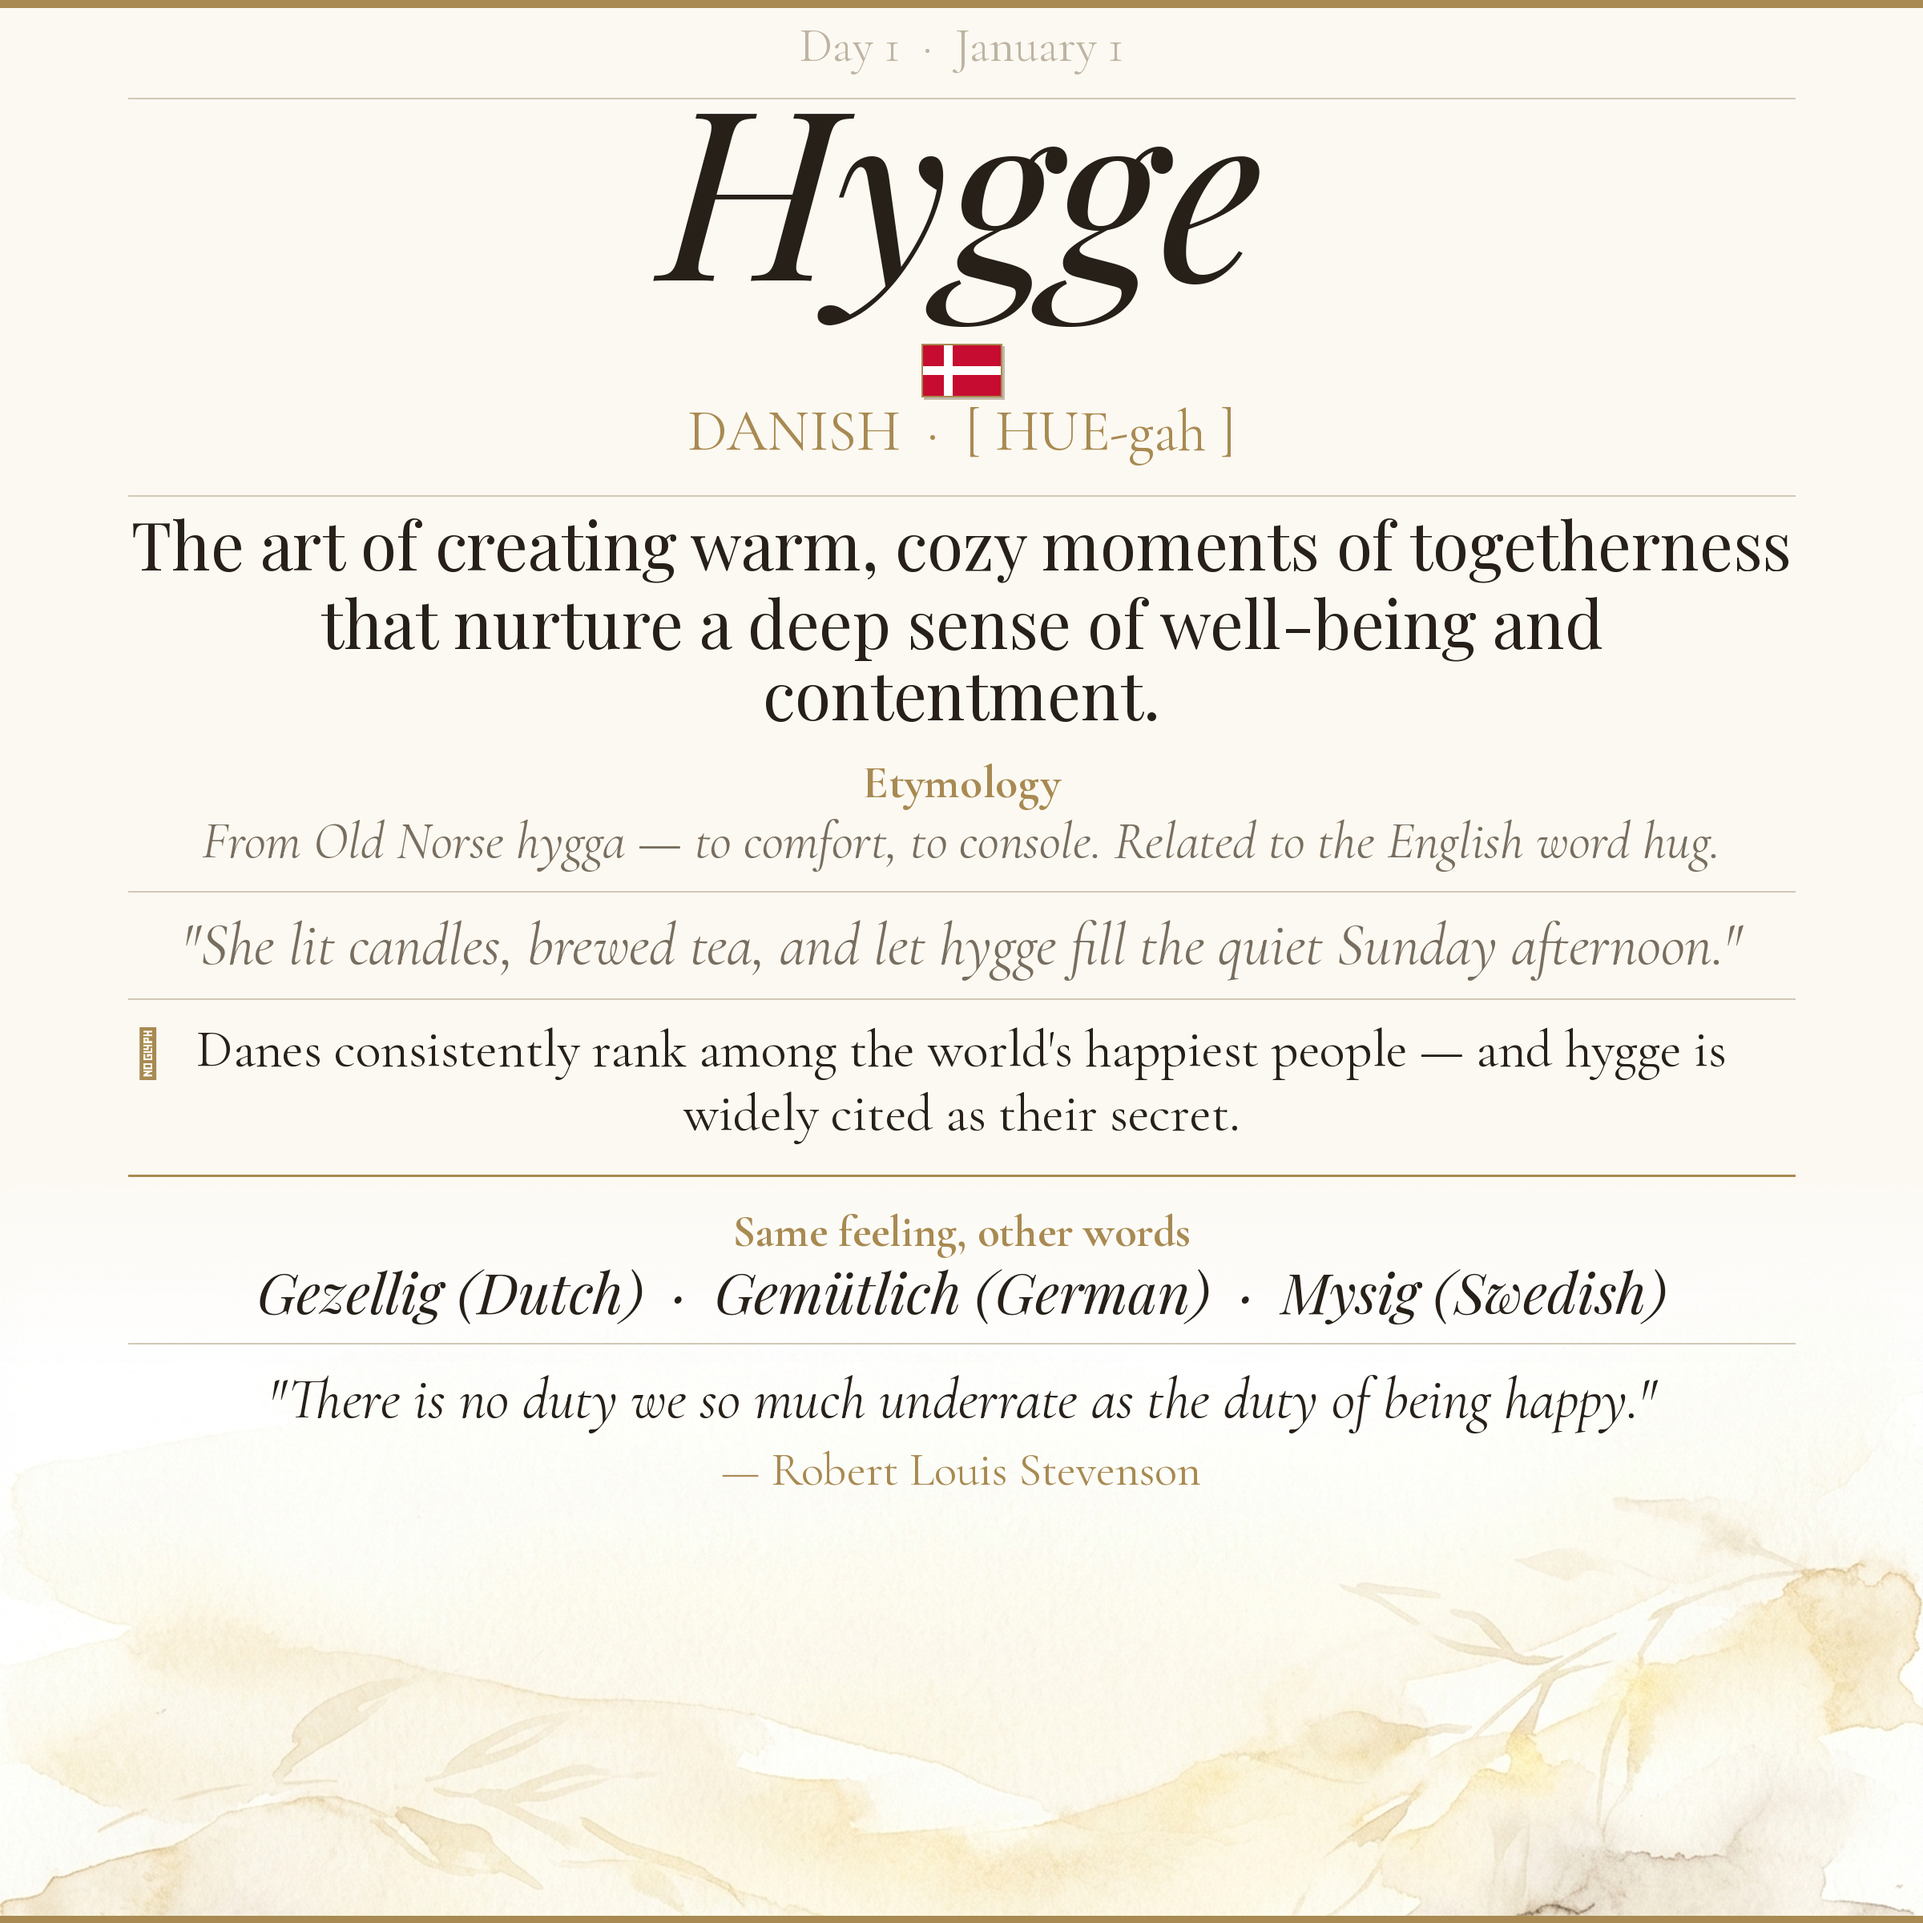
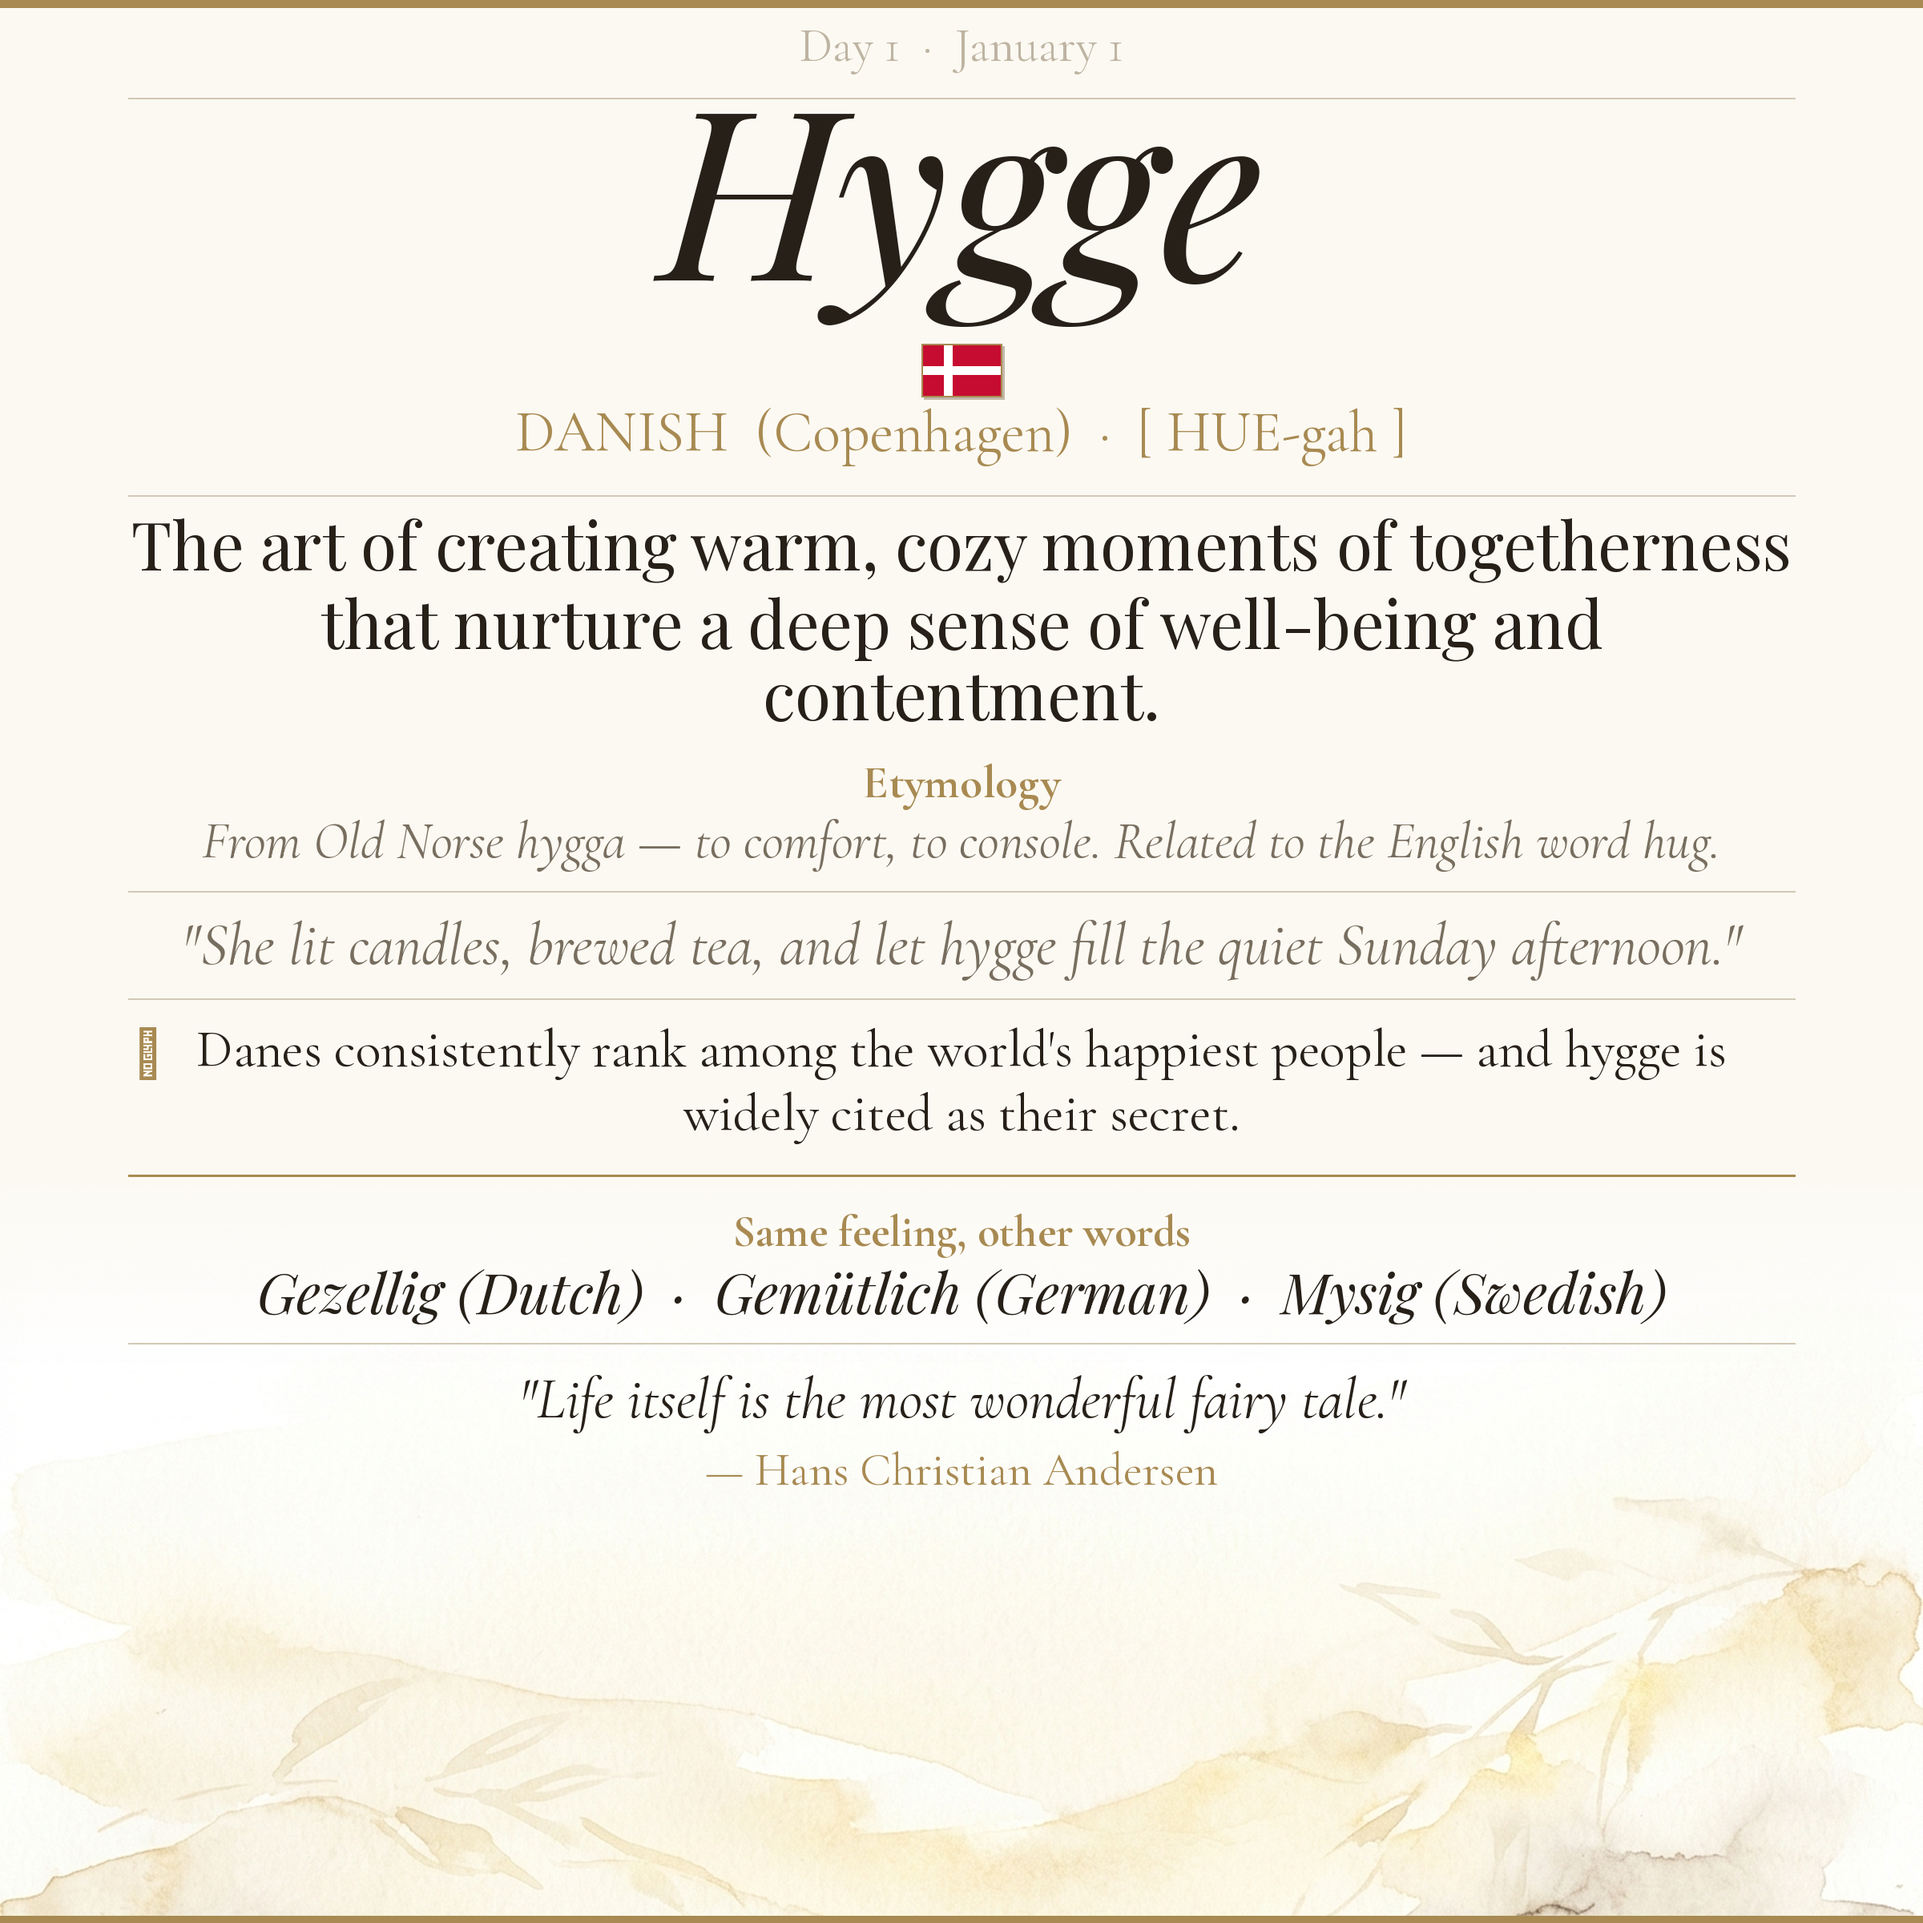
Add capital city + country-native quotes to word book pages
- Language line now shows: LANGUAGE (Capital) · pronunciation
- Quotes now come from authors native to the word's country
- Hygge: Hans Christian Andersen / Saudade: Fernando Pessoa

https://claude.ai/code/session_018BNd1Ba7eFukj4va47McZo

Changed region(s): [[0.2188, 0.7188, 0.8438, 0.7812], [0.2812, 0.2188, 0.7188, 0.25], [0.1562, 0.7188, 0.1875, 0.75]]

diff --git a/make_word_book.py b/make_word_book.py
@@ -162,7 +162,7 @@ def draw_mini_flag(draw, cx, cy, language):
 
 # ── Page renderer ─────────────────────────────────────────────────────────────
 
-def make_page(day_num, date_str, word, language, pronunciation,
+def make_page(day_num, date_str, word, language, capital, pronunciation,
               definition, etymology, example, cultural_note,
               related, quote, quote_author,
               out_name="word_demo.png"):
@@ -207,7 +207,7 @@ def make_page(day_num, date_str, word, language, pronunciation,
 
     fn_lang = ImageFont.truetype(FC_REG, 72)
     draw.text((W // 2, flag_cy + 46),
-              f"{language.upper()}  ·  {pronunciation}",
+              f"{language.upper()}  ({capital})  ·  {pronunciation}",
               fill=GOLD, font=fn_lang, anchor="mt")
     rule(draw, 618)
     y = 646
@@ -279,14 +279,15 @@ make_page(
     date_str      = "January 1",
     word          = "Hygge",
     language      = "Danish",
+    capital       = "Copenhagen",
     pronunciation = "[ HUE-gah ]",
     definition    = "The art of creating warm, cozy moments of togetherness that nurture a deep sense of well-being and contentment.",
     etymology     = "From Old Norse hygga — to comfort, to console. Related to the English word hug.",
     example       = "She lit candles, brewed tea, and let hygge fill the quiet Sunday afternoon.",
     cultural_note = "Danes consistently rank among the world's happiest people — and hygge is widely cited as their secret.",
     related       = "Gezellig (Dutch)  ·  Gemütlich (German)  ·  Mysig (Swedish)",
-    quote         = "There is no duty we so much underrate as the duty of being happy.",
-    quote_author  = "Robert Louis Stevenson",
+    quote         = "Life itself is the most wonderful fairy tale.",
+    quote_author  = "Hans Christian Andersen",
     out_name      = "word_jan01_hygge.png",
 )
 
@@ -295,13 +296,14 @@ make_page(
     date_str      = "January 2",
     word          = "Saudade",
     language      = "Portuguese",
+    capital       = "Lisbon",
     pronunciation = "[ saw-DAH-deh ]",
     definition    = "A deep, bittersweet longing for someone or something beloved that is absent, lost, or may never have truly existed.",
     etymology     = "From Latin solitatem — solitude. Shaped by centuries of Portuguese seafaring and exile.",
     example       = "Listening to old records alone, he was quietly overcome by saudade.",
     cultural_note = "Saudade is the emotional soul of Portugal and Brazil — the very heart of fado music.",
     related       = "Hiraeth (Welsh)  ·  Toska (Russian)  ·  Sehnsucht (German)",
-    quote         = "The bitterest tears shed over graves are for words left unsaid and deeds left undone.",
-    quote_author  = "Harriet Beecher Stowe",
+    quote         = "Everything is worth it if the soul is not small.",
+    quote_author  = "Fernando Pessoa",
     out_name      = "word_jan02_saudade.png",
 )
